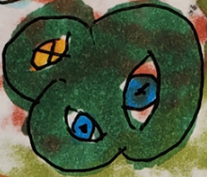
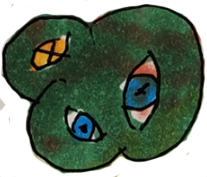
clean up blob art and hide debug rectangle

Changed region(s): [[0.0, 0.0, 1.0, 1.0]]

diff --git a/src/poke_my_eye.ts b/src/poke_my_eye.ts
@@ -157,8 +157,8 @@ setInterval(makeRandomBlob, 5000)
 const drawBlobCoords = function (blob: Blawb) {
   const topLeftX = blob.topLeftCorner[0]
   const topLeftY = blob.topLeftCorner[1]
-  const width = blob.dimensions[0]
-  const height = blob.dimensions[1]
+  // const width = blob.dimensions[0]
+  // const height = blob.dimensions[1]
   const image = images[blob.image]
   context.drawImage(image, topLeftX, topLeftY)
   context.font = '36px serif'
@@ -166,11 +166,11 @@ const drawBlobCoords = function (blob: Blawb) {
   context.textAlign = 'center'
   blob.eyes.forEach(function (eye) {
     context.fillStyle = eye.hit ? 'blue' : 'magenta'
-    context.fillText('o', topLeftX + eye.pos[0], topLeftY + eye.pos[1])
+    context.fillText(eye.hit ? 'x' : 'o', topLeftX + eye.pos[0], topLeftY + eye.pos[1])
   })
-  context.lineWidth = 15
-  context.strokeStyle = 'red'
-  context.strokeRect(topLeftX, topLeftY, width, height)
+  // context.lineWidth = 15
+  // context.strokeStyle = 'red'
+  // context.strokeRect(topLeftX, topLeftY, width, height)
 }
 const loadImagePromise = function (image: HTMLImageElement) {
   return new Promise<void>((resolve) => {
